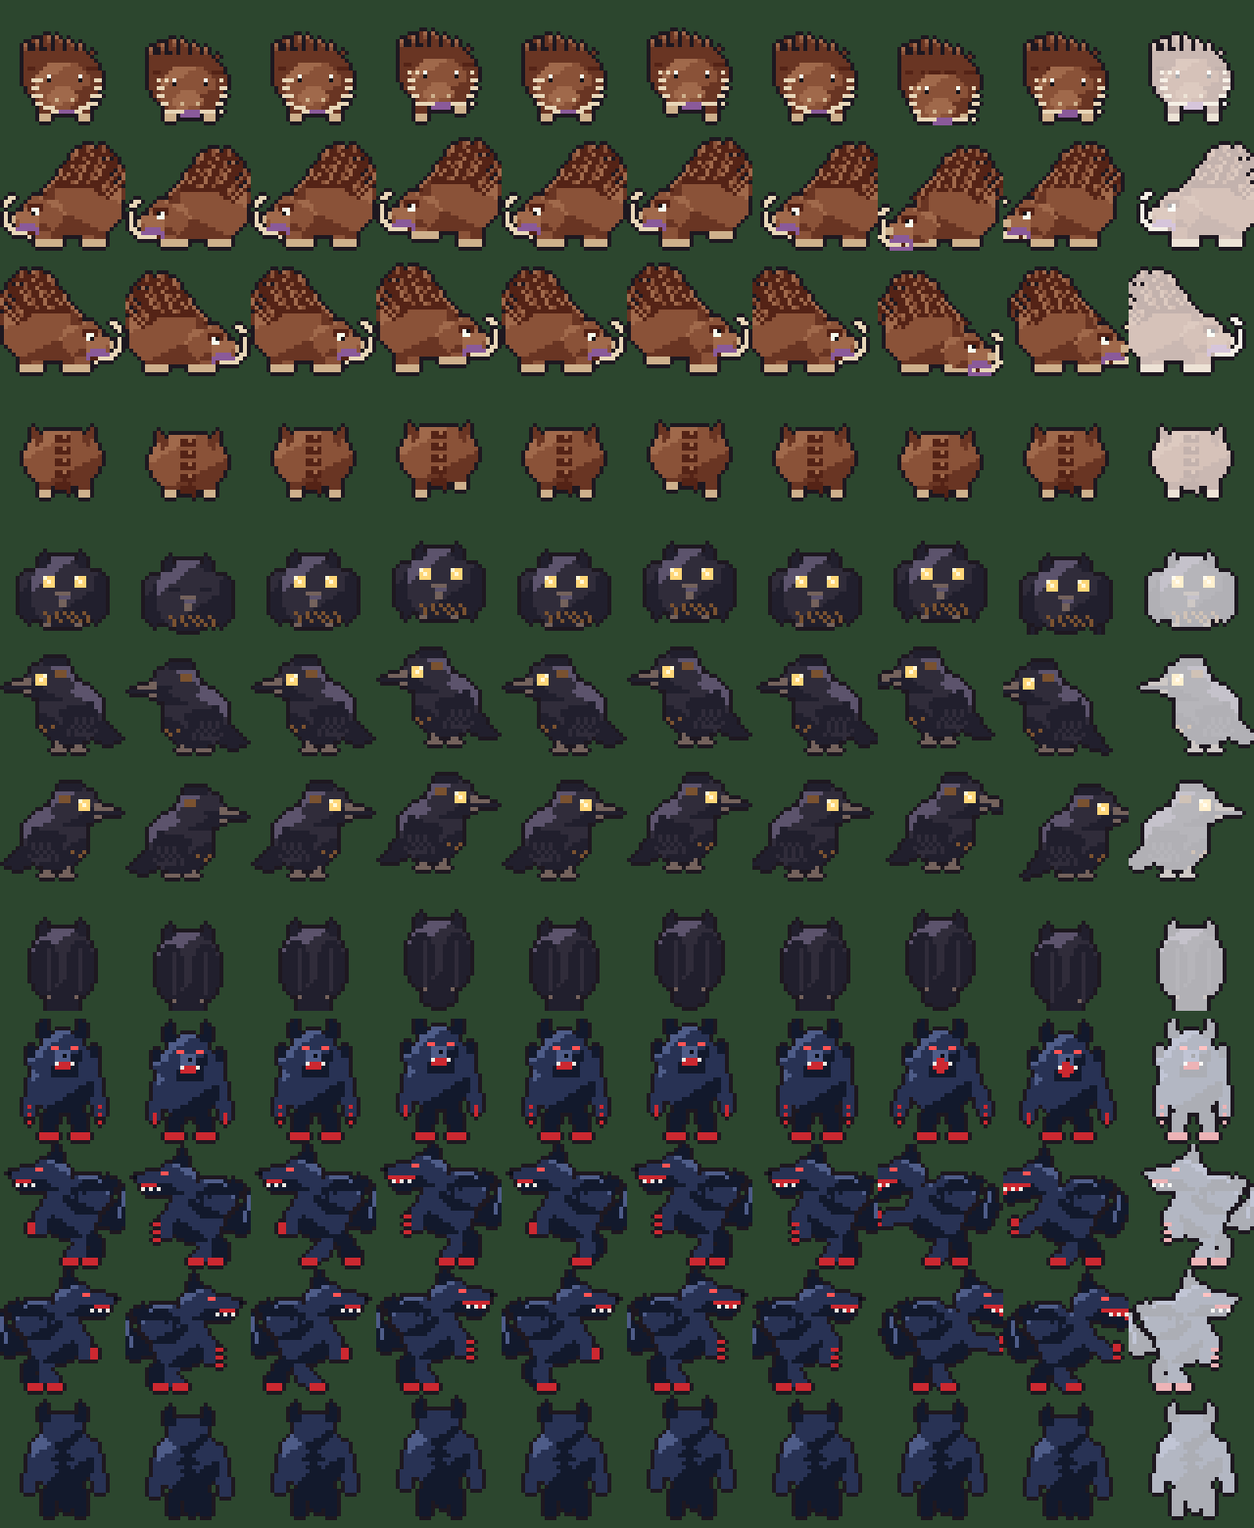
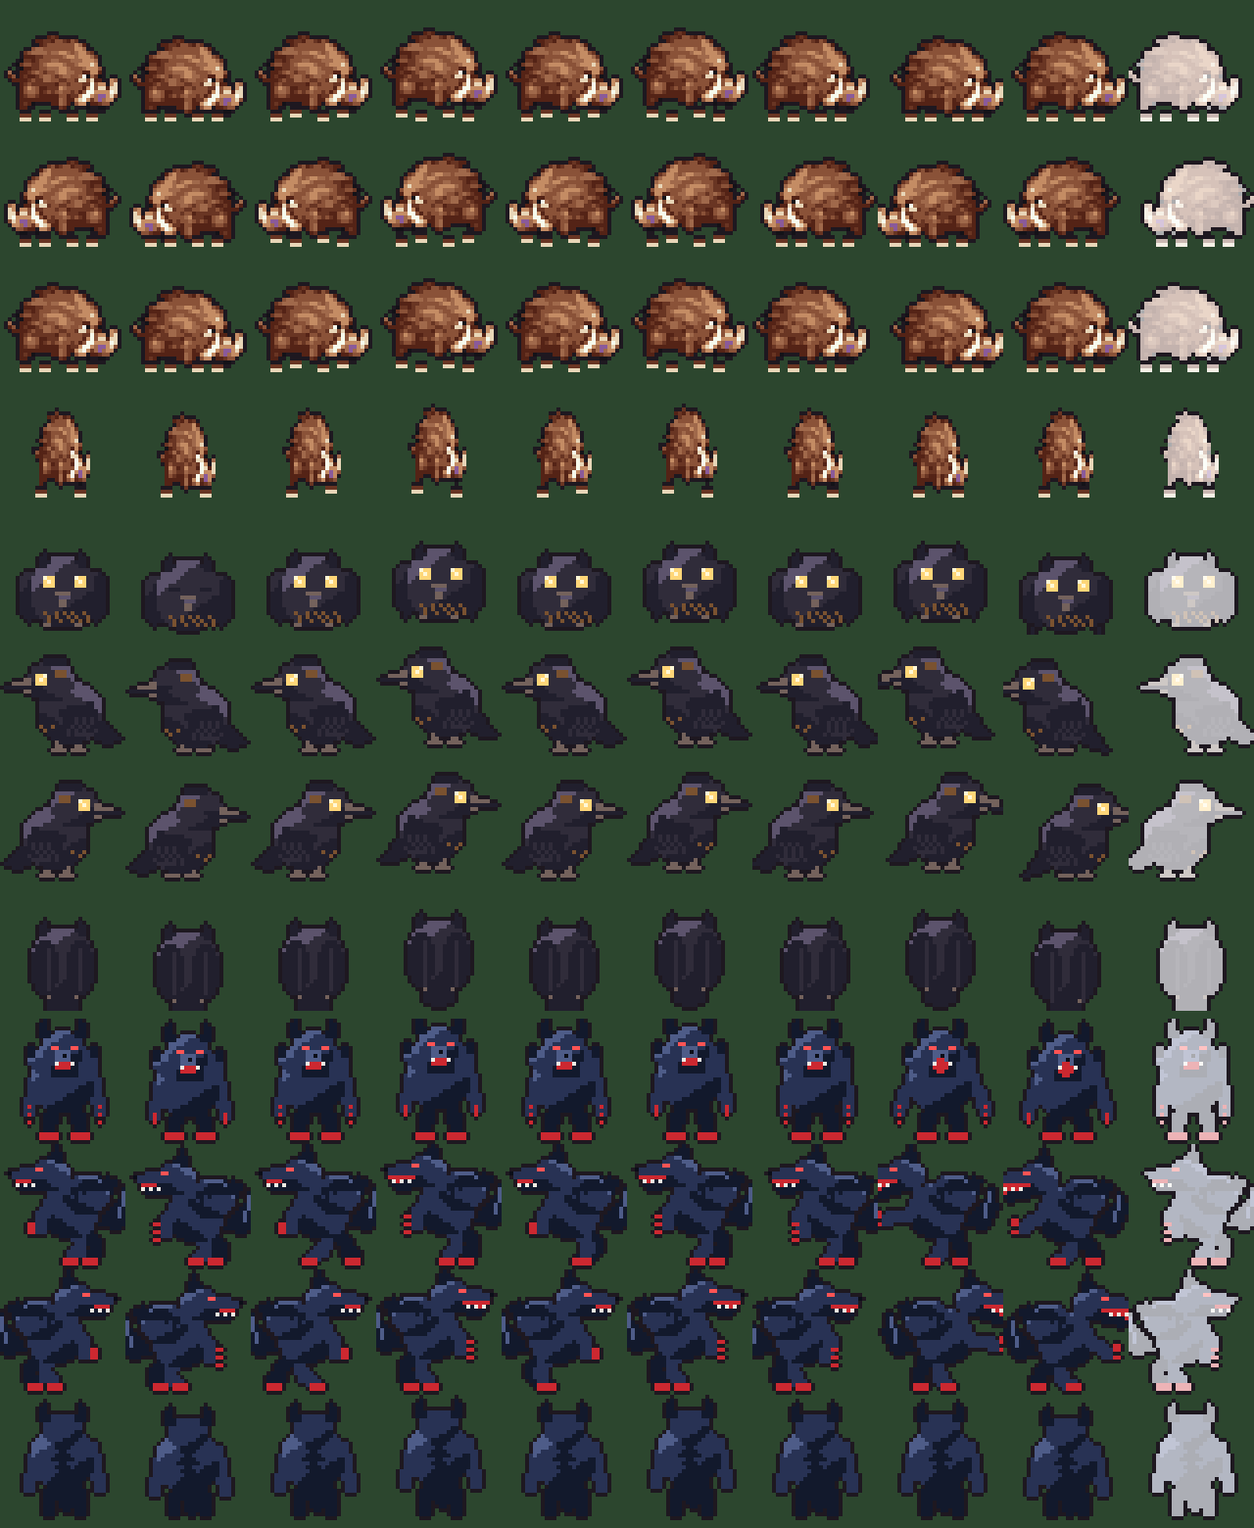
Jabalí rehecho a partir de su imagen de referencia, siempre de perfil

Changed region(s): [[0.0, 0.0, 1.0, 0.3385], [0.7188, 0.2769, 0.7812, 0.3385]]

diff --git a/tools/generadores/monstruos/criaturas.py b/tools/generadores/monstruos/criaturas.py
@@ -142,117 +142,6 @@ def arana(c, vista, anim, i, corona=False):
         c.put(x, top - 1 * k, "gema")
 
 
-# ---------------------------------------------------------------- jabalí
-
-JABALI_FASE = {"idle": [0, 0], "walk": [0, 1.6, 3.1, 4.7], "atacar": [0, 0, 0], "golpe": [0]}
-# Por fotograma: avance del cuerpo, cabeza agachada y altura del cuerpo (en píxeles de 32).
-JABALI_AVANCE = {"idle": [0, 0], "walk": [0, 0, 0, 0], "atacar": [-2, 1, 3], "golpe": [-2]}
-JABALI_CABEZA = {"idle": [0, 0], "walk": [0, 0, 0, 0], "atacar": [0, 2, 1], "golpe": [-1]}
-JABALI_ALTO = {"idle": [0, 1], "walk": [0, -1, 0, -1], "atacar": [0, 1, 0], "golpe": [0]}
-
-
-def _pata_jabali(c, x, y0, base, lift, k, clave):
-    """Pata corta y gruesa con pezuña; `lift` la levanta al andar."""
-    c.rect(x, y0, x + 2.5 * k, base - lift - 1 * k, clave)
-    c.rect(x, base - lift - 1 * k, x + 2.5 * k, base - lift, "pezuna")
-
-
-def _melena(c, x0, x1, y_base, altura, k, cuantas, pico_en):
-    """Hilera de púas del lomo, inclinadas hacia atrás; las más altas están en los hombros."""
-    for n in range(cuantas):
-        t = n / (cuantas - 1)
-        x = x0 + (x1 - x0) * t
-        h = altura * (1 - 0.55 * abs(t - pico_en))
-        punta = (x - 3.5 * k, y_base - h)
-        c.poly([(x - 2.5 * k, y_base + 2 * k), punta, (x + 2 * k, y_base + 2 * k)], "cuerpo_s")
-        c.line(x - 2 * k, y_base + 1 * k, x + 1.5 * k, y_base + 1 * k, "pua")
-        c.put(punta[0] + 0.5 * k, punta[1] + 1 * k, "cuerpo_l")
-        c.put(punta[0] + 1 * k, punta[1] + 2 * k, "cuerpo")
-
-
-def _colmillo(c, pts, k):
-    """Colmillo curvo de marfil: segmentos gruesos entre los puntos dados."""
-    for (x0, y0), (x1, y1) in zip(pts, pts[1:]):
-        c.line(x0, y0, x1, y1, "colmillo", 2)
-
-
-def jabali(c, vista, anim, i):
-    k = _escala(c)
-    fase = JABALI_FASE[anim][i]
-    av = JABALI_AVANCE[anim][i] * k
-    agacha = JABALI_CABEZA[anim][i] * k
-    alto = JABALI_ALTO[anim][i] * k
-    base = c.t - 2
-    cy = base - 9 * k + alto
-    lift = [max(0, math.sin(fase + (0 if n % 2 else math.pi))) * 2 * k for n in range(4)]
-    if vista == "lado":
-        cx = 11 * k + av
-        cy -= 1 * k
-        # Patas de atrás y de delante (las del otro lado, más oscuras)
-        for n, (px, clave) in enumerate(((cx - 6 * k, "cuerpo_s"), (cx + 5 * k, "cuerpo_s"),
-                                         (cx - 3 * k, "cuerpo"), (cx + 8 * k, "cuerpo"))):
-            _pata_jabali(c, px, cy + 4 * k, base, lift[n], k, clave)
-        # Rabo fino con borla
-        c.line(cx - 10 * k, cy - 1 * k, cx - 12 * k, cy - 5 * k, "cuerpo_s")
-        c.put(cx - 12 * k, cy - 6 * k, "pua")
-        # Cuerpo muy redondo
-        c.ellipse(cx, cy, 10.5 * k, 8.5 * k, "cuerpo", sombra="cuerpo_s", luz="cuerpo_l")
-        # Melena: hebras largas y claras que caen hacia atrás por todo el lomo
-        for n in range(13):
-            t = n / 12
-            x = cx - 8.5 * k + t * 16 * k
-            borde = cy - 8.5 * k * math.sqrt(max(0.05, 1 - ((x - cx) / (10.5 * k)) ** 2))
-            largo = (5 + 4 * math.sin(t * math.pi)) * k
-            clave = "cuerpo_l" if n % 3 == 0 else ("cuerpo" if n % 3 == 1 else "pua")
-            c.line(x + 1 * k, borde + 3 * k, x - 3.5 * k, borde - largo + 3 * k, "pua", 2)
-            c.line(x + 1 * k, borde + 2 * k, x - 3 * k, borde - largo + 2 * k, clave)
-        # Cabeza baja y redonda con el hocico corto, la boca morada y el colmillo grande
-        hx, hy = cx + 10 * k, cy + 2.5 * k + agacha
-        c.ellipse(hx, hy, 5.5 * k, 5 * k, "cuerpo", sombra="cuerpo_s", luz="cuerpo_l")
-        c.ellipse(hx + 4 * k, hy + 1.5 * k, 3 * k, 2.8 * k, "cuerpo_l", sombra="cuerpo")
-        c.poly([(hx - 3 * k, hy - 3 * k), (hx - 2.5 * k, hy - 8 * k), (hx, hy - 3.5 * k)], "cuerpo_s")
-        c.rect(hx + 0 * k, hy - 2.5 * k, hx + 3 * k, hy - 1.5 * k, "pua")
-        c.rect(hx + 1 * k, hy - 1.5 * k, hx + 2 * k, hy - 0.5 * k, "brillo")
-        c.put(hx + 2 * k, hy - 1 * k, "ojo")
-        c.rect(hx + 6.5 * k, hy + 0.5 * k, hx + 7.5 * k, hy + 1.5 * k, "pezuna")
-        boca = 1.5 * k if anim == "atacar" and i == 1 else 0
-        c.ellipse(hx + 4 * k, hy + 4.2 * k + boca * 0.5, 3.2 * k, 1.6 * k + boca * 0.5, "boca")
-        c.line(hx + 2 * k, hy + 4.2 * k, hx + 6 * k, hy + 4.2 * k, "pua")
-        _colmillo(c, [(hx + 2.5 * k, hy + 5 * k), (hx + 6 * k, hy + 4.5 * k), (hx + 8.5 * k, hy + 1.5 * k),
-                      (hx + 8.5 * k, hy - 2 * k), (hx + 7 * k, hy - 4.5 * k)], k)
-        return
-    cx = c.t / 2
-    if vista == "frente":
-        for n, px in enumerate((cx - 6 * k, cx + 3.5 * k)):
-            _pata_jabali(c, px, cy + 3 * k, base, lift[n], k, "cuerpo_s")
-        c.ellipse(cx, cy - 1 * k, 10 * k, 7.5 * k, "cuerpo_s")
-        _melena(c, cx - 7 * k, cx + 7 * k, cy - 5 * k, 8 * k, k, 6, 0.5)
-        c.ellipse(cx, cy + 1 * k + agacha, 7.5 * k, 6.5 * k, "cuerpo", sombra="cuerpo_s", luz="cuerpo_l")
-        for s in (-1, 1):
-            c.poly([(cx + s * 6 * k, cy - 3 * k), (cx + s * 8 * k, cy - 8 * k), (cx + s * 3 * k, cy - 5 * k)], "cuerpo_s")
-        c.ellipse(cx, cy + 4 * k + agacha, 4 * k, 3 * k, "cuerpo_l", sombra="cuerpo")
-        for ox in (-4, 4):
-            c.put(cx + ox * k, cy - 1 * k + agacha, "ojo")
-            c.put(cx + ox * k - 0.5 * k, cy - 2 * k + agacha, "brillo")
-        c.put(cx - 1.5 * k, cy + 4 * k + agacha, "pezuna")
-        c.put(cx + 1.5 * k, cy + 4 * k + agacha, "pezuna")
-        c.rect(cx - 2 * k, cy + 6.5 * k + agacha, cx + 2 * k, cy + 7 * k + agacha, "boca")
-        for s in (-1, 1):
-            _colmillo(c, [(cx + s * 3 * k, cy + 6.5 * k + agacha), (cx + s * 6.5 * k, cy + 5.5 * k + agacha),
-                          (cx + s * 8 * k, cy + 1.5 * k + agacha), (cx + s * 7.5 * k, cy - 1.5 * k + agacha)], k)
-        return
-    for n, px in enumerate((cx - 6 * k, cx + 3.5 * k)):
-        _pata_jabali(c, px, cy + 3 * k, base, lift[n], k, "cuerpo_s")
-    c.ellipse(cx, cy, 10 * k, 7.5 * k, "cuerpo", sombra="cuerpo_s", luz="cuerpo_l")
-    for n in range(5):
-        y = cy - 6 * k + n * 3 * k
-        c.poly([(cx - 3 * k, y + 2 * k), (cx, y - 1 * k), (cx + 3 * k, y + 2 * k)], "pua")
-        c.put(cx, y, "cuerpo_l")
-    for s in (-1, 1):
-        c.poly([(cx + s * 7 * k, cy - 3 * k), (cx + s * 8 * k, cy - 8 * k), (cx + s * 4 * k, cy - 5 * k)], "cuerpo_s")
-    c.line(cx, cy + 5 * k, cx + 1 * k, cy + 8 * k, "pua")
-
-
 # ---------------------------------------------------------------- cuervo
 
 CUERVO_ALTO = {"idle": [0, 1], "walk": [0, -2, 0, -2], "atacar": [0, -2, 1], "golpe": [0]}

diff --git a/tools/generadores/monstruos/jabali.py b/tools/generadores/monstruos/jabali.py
@@ -1,0 +1,134 @@
+"""Jabalí: su pose base sale de la imagen de referencia, reducida a unos 28 píxeles y repintada con la paleta
+del juego (la melena de hebras y los colmillos son los de la imagen); se anima moviéndola y con patas dibujadas.
+
+Contrato de los monstruos con módulo propio: `fotograma(direccion, anim, i)` da un array RGBA de 32×32 con los
+pies en (16, 30); `OUT` es el color del contorno (el golpe lo deja casi blanco).
+"""
+import os
+
+import numpy as np
+from PIL import Image, ImageEnhance
+
+OUT = (30, 24, 32)
+REFERENCIA = os.path.join(os.path.dirname(os.path.abspath(__file__)), "..", "..", "..", "docs", "superpowers",
+                          "mockups", "cauce-seco-referencias", "1-jabali.jpg")
+ANCHO = 28
+PALETA = {
+    "oscuro": (84, 35, 22), "sombra": (105, 53, 35), "cuerpo": (138, 82, 56), "luz": (160, 105, 75),
+    "melena": (196, 140, 100), "colmillo": (232, 214, 184), "boca": (138, 90, 154), "ojo": (20, 18, 24),
+    "blanco": (246, 250, 236),
+}
+# Retoques a mano sobre la pose reducida: (x, y, color) en píxeles de la pose base (sin contorno).
+RETOQUES = [(19, 9, "oscuro"), (20, 9, "oscuro"), (19, 10, "blanco"), (20, 10, "ojo")]
+
+
+def _base():
+    """La pose base: matriz de colores (o None) de la imagen reducida, sin contorno."""
+    im = Image.open(REFERENCIA).convert("RGB")
+    a = np.array(im).astype(int)
+    mask = a.sum(axis=2) > 90
+    ys, xs = np.where(mask)
+    caja = (xs.min(), ys.min(), xs.max() + 1, ys.max() + 1)
+    recorte = im.crop(caja)
+    m = Image.fromarray((mask[caja[1]:caja[3], caja[0]:caja[2]] * 255).astype("uint8"))
+    alto = round(recorte.height * ANCHO / recorte.width)
+    reducida = recorte.resize((ANCHO, alto), Image.BOX)
+    c = np.array(ImageEnhance.Contrast(reducida).enhance(1.35)).astype(int)
+    mm = np.array(m.resize((ANCHO, alto), Image.BOX)) >= 110
+    claves = list(PALETA)
+    colores = np.array([PALETA[k] for k in claves])
+    grid = [[None] * ANCHO for _ in range(alto)]
+    for y in range(alto):
+        for x in range(ANCHO):
+            if mm[y, x]:
+                d = ((colores - c[y, x]) ** 2).sum(axis=1)
+                grid[y][x] = claves[int(d.argmin())]
+    for x, y, k in RETOQUES:
+        grid[y][x] = k
+    return grid
+
+
+def _con_contorno(grid):
+    """Pose con una fila y columna extra alrededor para el contorno: matriz de colores RGB o 'contorno'."""
+    alto, ancho = len(grid), len(grid[0])
+    sal = [[None] * (ancho + 2) for _ in range(alto + 2)]
+    for y in range(alto):
+        for x in range(ancho):
+            sal[y + 1][x + 1] = grid[y][x]
+    for y in range(alto + 2):
+        for x in range(ancho + 2):
+            if sal[y][x] is not None:
+                continue
+            for dx, dy in ((1, 0), (-1, 0), (0, 1), (0, -1)):
+                nx, ny = x + dx, y + dy
+                if 0 <= nx < ancho + 2 and 0 <= ny < alto + 2 and sal[ny][nx] not in (None, "contorno"):
+                    sal[y][x] = "contorno"
+                    break
+    return sal
+
+
+def _rgb(k):
+    return OUT if k == "contorno" else PALETA[k]
+
+
+_BASE = None
+
+
+def _pose():
+    global _BASE
+    if _BASE is None:
+        _BASE = _con_contorno(_base())
+    return _BASE
+
+
+def _pegar(lienzo, sal, x0, y0):
+    for y, fila in enumerate(sal):
+        for x, k in enumerate(fila):
+            if k is None:
+                continue
+            px, py = x0 + x, y0 + y
+            if 0 <= px < 32 and 0 <= py < 32:
+                lienzo[py, px] = _rgb(k) + (255,)
+
+
+def _pata(lienzo, x, y_pie, alza):
+    """Pata corta y gruesa con pezuña clara, que se levanta `alza` píxeles."""
+    for xx in (x, x + 1, x + 2):
+        lienzo[y_pie - 1 - alza, xx] = PALETA["sombra"] + (255,)
+        lienzo[y_pie - alza, xx] = PALETA["colmillo"] + (255,)
+        lienzo[y_pie - 2 - alza, xx] = OUT + (255,)
+
+
+BOB = {"idle": [0, 1], "walk": [0, -1, 0, -1], "atacar": [0, 1, 0], "golpe": [0]}
+AVANCE = {"idle": [0, 0], "walk": [0, 0, 0, 0], "atacar": [-1, 2, 1], "golpe": [-2]}
+ALZA = {"idle": [[0] * 4] * 2, "walk": [[0, 1, 0, 1], [1, 0, 1, 0], [0, 1, 0, 1], [1, 0, 1, 0]],
+        "atacar": [[0] * 4] * 3, "golpe": [[0] * 4]}
+
+
+def fotograma(direccion, anim, i):
+    lienzo = np.zeros((32, 32, 4), dtype=np.uint8)
+    sal = _pose()
+    alto, ancho = len(sal), len(sal[0])
+    bob = BOB[anim][i]
+    # Los pies (pezuñas) tocan la fila 30; el cuerpo, bajo y gordo, casi las tapa.
+    y0 = 28 - (alto - 1) + bob
+    if direccion == "up":
+        # De espaldas: la misma pose estrechada, con el rabo en el centro.
+        estrecha = [[sal[y][int(x * ancho / 15)] for x in range(15)] for y in range(alto)]
+        x0 = 16 - 8
+        _pegar(lienzo, estrecha, x0, y0)
+        alza = ALZA[anim][i]
+        _pata(lienzo, 9, 30, alza[0])
+        _pata(lienzo, 19, 30, alza[1])
+        return lienzo
+    x0 = 1 + AVANCE[anim][i]
+    if direccion == "left":
+        sal = [fila[::-1] for fila in sal]
+        x0 = 32 - ancho - 1 - AVANCE[anim][i]
+    alza = ALZA[anim][i]
+    if direccion == "left":
+        alza = alza[::-1]
+    _pegar(lienzo, sal, x0, y0)
+    for n, px in enumerate((x0 + 4, x0 + 9, x0 + 16, x0 + 21)):
+        _pata(lienzo, px, 30, alza[n])
+    return lienzo

diff --git a/tools/generadores/monstruos/generar.py b/tools/generadores/monstruos/generar.py
@@ -20,6 +20,7 @@ from lienzo import Lienzo  # noqa: E402
 import criaturas  # noqa: E402
 import humanoides  # noqa: E402
 import espectro  # noqa: E402
+import jabali  # noqa: E402
 import golem  # noqa: E402
 import rey_sin_charca  # noqa: E402
 import arbol_maldito  # noqa: E402
@@ -56,8 +57,6 @@ MONSTRUOS = {
     "murcielago": (32, paleta(cuerpo=(112, 86, 132), cuerpo_s=(74, 54, 92), cuerpo_l=(150, 124, 168),
                               ala=(90, 66, 110), ala_s=(58, 40, 74), ojo=(226, 60, 70), diente=(240, 236, 220)),
                    criaturas.murcielago, {}),
-    "jabali": (32, paleta(cuerpo=(138, 82, 56), cuerpo_s=(105, 53, 35), cuerpo_l=(160, 105, 75), pua=(84, 35, 22),
-                          colmillo=(232, 214, 184), boca=(138, 90, 154), pezuna=(206, 176, 140)), criaturas.jabali, {}),
     "cuervo": (32, paleta(cuerpo=(48, 44, 58), cuerpo_s=(33, 31, 45), cuerpo_l=(92, 83, 108), pico=(116, 98, 92),
                           adorno=(122, 82, 48), ojo=(255, 214, 120), brillo=(255, 248, 214)), criaturas.cuervo, {}),
     "lobo": (32, paleta(pelo=(40, 50, 84), pelo_s=(18, 25, 44), pelo_l=(78, 92, 136), rojo=(204, 40, 48),
@@ -81,6 +80,7 @@ MONSTRUOS = {
 # Monstruos dibujados con su propio módulo (más detalle que el Lienzo): (ancho, alto, módulo).
 # Cada módulo da `fotograma(direccion, anim, i)` como array RGBA con los pies en (ancho/2, alto-2).
 PROPIOS = {
+    "jabali": (32, 32, jabali),
     "espectro": (32, 32, espectro),
     "golem": (48, 48, golem),
     "rey_sin_charca": (64, 48, rey_sin_charca),

diff --git a/CLAUDE.md b/CLAUDE.md
@@ -17,7 +17,7 @@ Si el diseño y este archivo discrepan, manda el documento; avisa de la discrepa
 - **Versión 2, primer bloque: salas violetas** (jefes extra opcionales, cofre trampa y recompensas especiales), en la rama `salas-violetas`. Diseño aprobado en `docs/superpowers/specs/2026-10-25-salas-violetas-design.md`; plan en `docs/superpowers/plans/2026-10-25-salas-violetas.md`. **Hecho y publicado (2026-10-25)**; el arte lo aprobó Pedro. Resumen y equilibrado en la pestaña «Versión 2: salas violetas» del documento.
 - **Reequilibrado del 2026-10-25 (noche), antes del HD-2D** (Pedro: el juego debe estar equilibrado antes del cambio gráfico). La jugadora simulada bebe éter contra los jefes si no le llega para su golpe más fuerte (antes no, y la ronin parecía más débil de lo que es). Ronin con más fuerza a mitad de partida y menos al final (Corte rápido 1,6, Iaido 2,1); dificultades ordenadas (ataque y vida de los monstruos no bajan de Fácil a Difícil, la recuperación no sube); ojo flotante con menos magia y más vida, para que su combate no sea todo o nada. Los valores se buscaron con margen, no en el filo.
 - **Reglas nuevas (2026-10-30), rama `reglas-nuevas`: primera entrega del Cauce Seco** (cuarta zona de fuego entre la Cripta y el Rey; diseño en `docs/superpowers/specs/2026-10-30-cauce-seco-design.md`, plan de esta entrega en `docs/superpowers/plans/2026-10-30-reglas-nuevas.md`, referencia previa en `...-referencia.md`). Pedro: «el juego tiene que ser un reto». Fórmula de daño por **cociente**, `max(1, ⌊(ATQ×poder)² / (ATQ×poder + DEF×factor) × varianza × crítico⌋)` (factor 0,5 físico y 0,25 mágico; `calcularDanio` en `src/core/combate.ts`): la defensa ya no anula el golpe, pero tampoco neutraliza los golpes bajos de los monstruos, así que el juego salió más difícil. **Nivel máximo 12.** Rangos de victoria de partida completa **Fácil 65-75 %, Normal 45-55 %, Difícil 25-35 %** y jefes violetas 65/50/35 de media (±10). Para cuadrarlo (ver los `Ruling` del registro del plan): ronin +2 de ataque por nivel (antes +1), maga 41 PV (antes 36), vida de los monstruos ×1,07 en las tres dificultades, ataque ×1,09 en Fácil, 1,11 en Normal y Difícil, y más vida al Señor de la Cripta y al Rey sin Charca. Las cifras caen dentro de rango con 1-3 puntos de margen (la vida de los monstruos se redondea a enteros y salta: ×1,08 hunde a la ronin). Falta la entrega 3 (el Cauce Seco); la 2 (monstruos nuevos) está en la rama `monstruos-nuevos`. El documento de desarrollo sigue describiendo la fórmula de resta: hay que actualizarlo.
-- **Monstruos nuevos (2026-10-30), rama `monstruos-nuevos`: entrega 2 del Cauce Seco** (plan en `docs/superpowers/plans/2026-10-30-monstruos-nuevos.md`). **Jabalí** y **Cuervo** entran en el Bosque y el **Lobo** en la Cripta; el **Espectro** sale de la Cripta y queda con `oculto: true` hasta el Cauce Seco (así «Naturalista» no lo pide). Sprites de 32×32 dibujados por script (`criaturas.py`: jabalí y cuervo; `humanoides.py`: lobo), con las imágenes de `docs/superpowers/mockups/cauce-seco-referencias/` como guía; imagen de revisión en `docs/previews/monstruos_nuevos_x4.png`. Para regenerar solo los monstruos: `.venv\Scripts\python.exe tools\generadores\monstruos\generar.py` (nunca `generar_todo.py`) y luego `git checkout` de lo que reescriba sin necesidad (`espectro.png` y `golem.png` cambian de bytes aunque sean iguales). El bestiario pasa a 7 casillas por fila (21). Reequilibrado: lobo 54 PV/ataque 15/velocidad 8, jabalí 25 PV/ataque 7, cuervo ataque 6, PV iniciales de la ronin 46 y de la maga 40, ataque de monstruos en Fácil ×1,08 y recuperación en Difícil 0,44. Resultado (ronin / maga): Fácil 70 / 69, Normal 49 / 53, Difícil 32 / 32. Nota para el Cauce Seco: `tests/monstruos.test.ts` exige que los Dragones negros compartan sprite. **El arte lo tiene que aprobar Pedro** (el jabalí se rehízo dos veces tras sus comentarios).
+- **Monstruos nuevos (2026-10-30), rama `monstruos-nuevos`: entrega 2 del Cauce Seco** (plan en `docs/superpowers/plans/2026-10-30-monstruos-nuevos.md`). **Jabalí** y **Cuervo** entran en el Bosque y el **Lobo** en la Cripta; el **Espectro** sale de la Cripta y queda con `oculto: true` hasta el Cauce Seco (así «Naturalista» no lo pide). Sprites de 32×32 dibujados por script (`jabali.py`, que reduce su imagen de referencia y la repinta con la paleta del juego; `criaturas.py`: cuervo; `humanoides.py`: lobo), con las imágenes de `docs/superpowers/mockups/cauce-seco-referencias/` como guía; imagen de revisión en `docs/previews/monstruos_nuevos_x4.png`. Para regenerar solo los monstruos: `.venv\Scripts\python.exe tools\generadores\monstruos\generar.py` (nunca `generar_todo.py`) y luego `git checkout` de lo que reescriba sin necesidad (`espectro.png` y `golem.png` cambian de bytes aunque sean iguales). El bestiario pasa a 7 casillas por fila (21). Reequilibrado: lobo 54 PV/ataque 15/velocidad 8, jabalí 25 PV/ataque 7, cuervo ataque 6, PV iniciales de la ronin 46 y de la maga 40, ataque de monstruos en Fácil ×1,08 y recuperación en Difícil 0,44. Resultado (ronin / maga): Fácil 70 / 69, Normal 49 / 53, Difícil 32 / 32. Nota para el Cauce Seco: `tests/monstruos.test.ts` exige que los Dragones negros compartan sprite. **El arte lo tiene que aprobar Pedro** (el jabalí se rehízo cuatro veces tras sus comentarios; la comparación con su imagen está en `docs/previews/jabali_comparacion.png`).
 - **Menús nuevos de combate e inventario (2026-10-26)**, rama `menus-nuevos`: estilo de Octopath (doble filete con rombos, brillo y rombo de cursor) en lavanda de Nenúfar, con la barra de PX en verde (`src/render/marco.ts`, colores en `PALETA`). Combate: panel abajo en dos columnas (lista con el coste y, a la derecha, qué hace lo elegido y la ficha de la heroína); la escena sube para no tapar a ningún jefe; sin botón «i» (la descripción está siempre a la vista). Inventario: lista a la izquierda (Heroína, Objetos, Equipo, Mejorar, Ajustes; Seguir y Salir abajo) y la sección a la derecha. Toque: dos toques (el primero elige y dice qué hace) en habilidades, objetos y enemigo; uno en lo demás (`src/core/menu.ts`). Diseño en `docs/superpowers/specs/2026-10-26-menus-design.md`, bocetos en `docs/superpowers/mockups/`; la disposición A (lista junto a quien actúa) queda como idea.
 - **Estilo lavanda en todas las pantallas (2026-10-27), rama `estilo-pantallas`.** Elegir rana, nombre, dificultad, puntos, equipo, portada, bestiario y logros, controles, mensajes, cartel de victoria, avisos del HUD y minimapa usan `src/render/marco.ts` (`dibujarFondo`, `dibujarCabecera`, `dibujarCaja`, `dibujarMarco`, `dibujarFila`, `PALETA`). `dibujarMenu` (botones) ya pinta cajas lavanda; `rectOpcion` sigue en uso. Quedan dorados solo en arte (mochila, modelos 3D). **Niebla (2026-10-27):** en el mapa el desenfoque ya no sigue a la heroína: la zona jugable se ve nítida y solo se emborronan los árboles de alrededor (`src/render/mundo/desenfoque.ts`, números en `bordes` de `hd2d.json`: `muro` 1, `fuerza` 6; con `muro` 2 la heroína sale borrosa al pegarse al borde). El combate y la portada siguen con el tilt-shift.
 - **Pantalla completa y sala grande (2026-10-27), rama `pantalla-completa`, publicada.** El mapa 3D y el canvas 2D cubren toda la ventana. La sala es de 21×13 tiles (672×416, `SALA_ANCHO`/`SALA_ALTO` en `src/render/pantalla.ts`) y se escala a todo lo que cabe, sin múltiplo entero. El canvas 2D tiene dos formas de colocarse (`fijarModo`, `colocarContexto`, `aLogico`): «ventana» (el mapa: HUD arriba a los lados, minimapa a la izquierda de la mochila con escala entera según el ancho libre, `ESCALA_HUD` 0,75) y «menú» (todo lo demás: la interfaz de 480×352 centrada; los fondos llenan `area`). Cada escena dice con `ventana` si dibuja en coordenadas de ventana y con `conMundo` si usa el 3D (si no, se oculta). El panel de acción del combate se dibuja a `PANEL_ESCALA` (`aPanel` para el toque; 0,8 se quedaba pequeño para el dedo, desde 2026-10-29 es 1). Decorado de fuera de la sala en `crearExterior` (`borde.ts`, `exterior` de `hd2d.json`). Las plantillas (24) se ensancharon con un script y se les repartió decorado al azar con semilla: sin retocar a mano. Pendiente: el fundido entre salas solo cubre la ventana del mapa pero no probado en móvil; Ruinas y Cripta, exterior muy plano; Pedro tiene que probarlo en el móvil.
